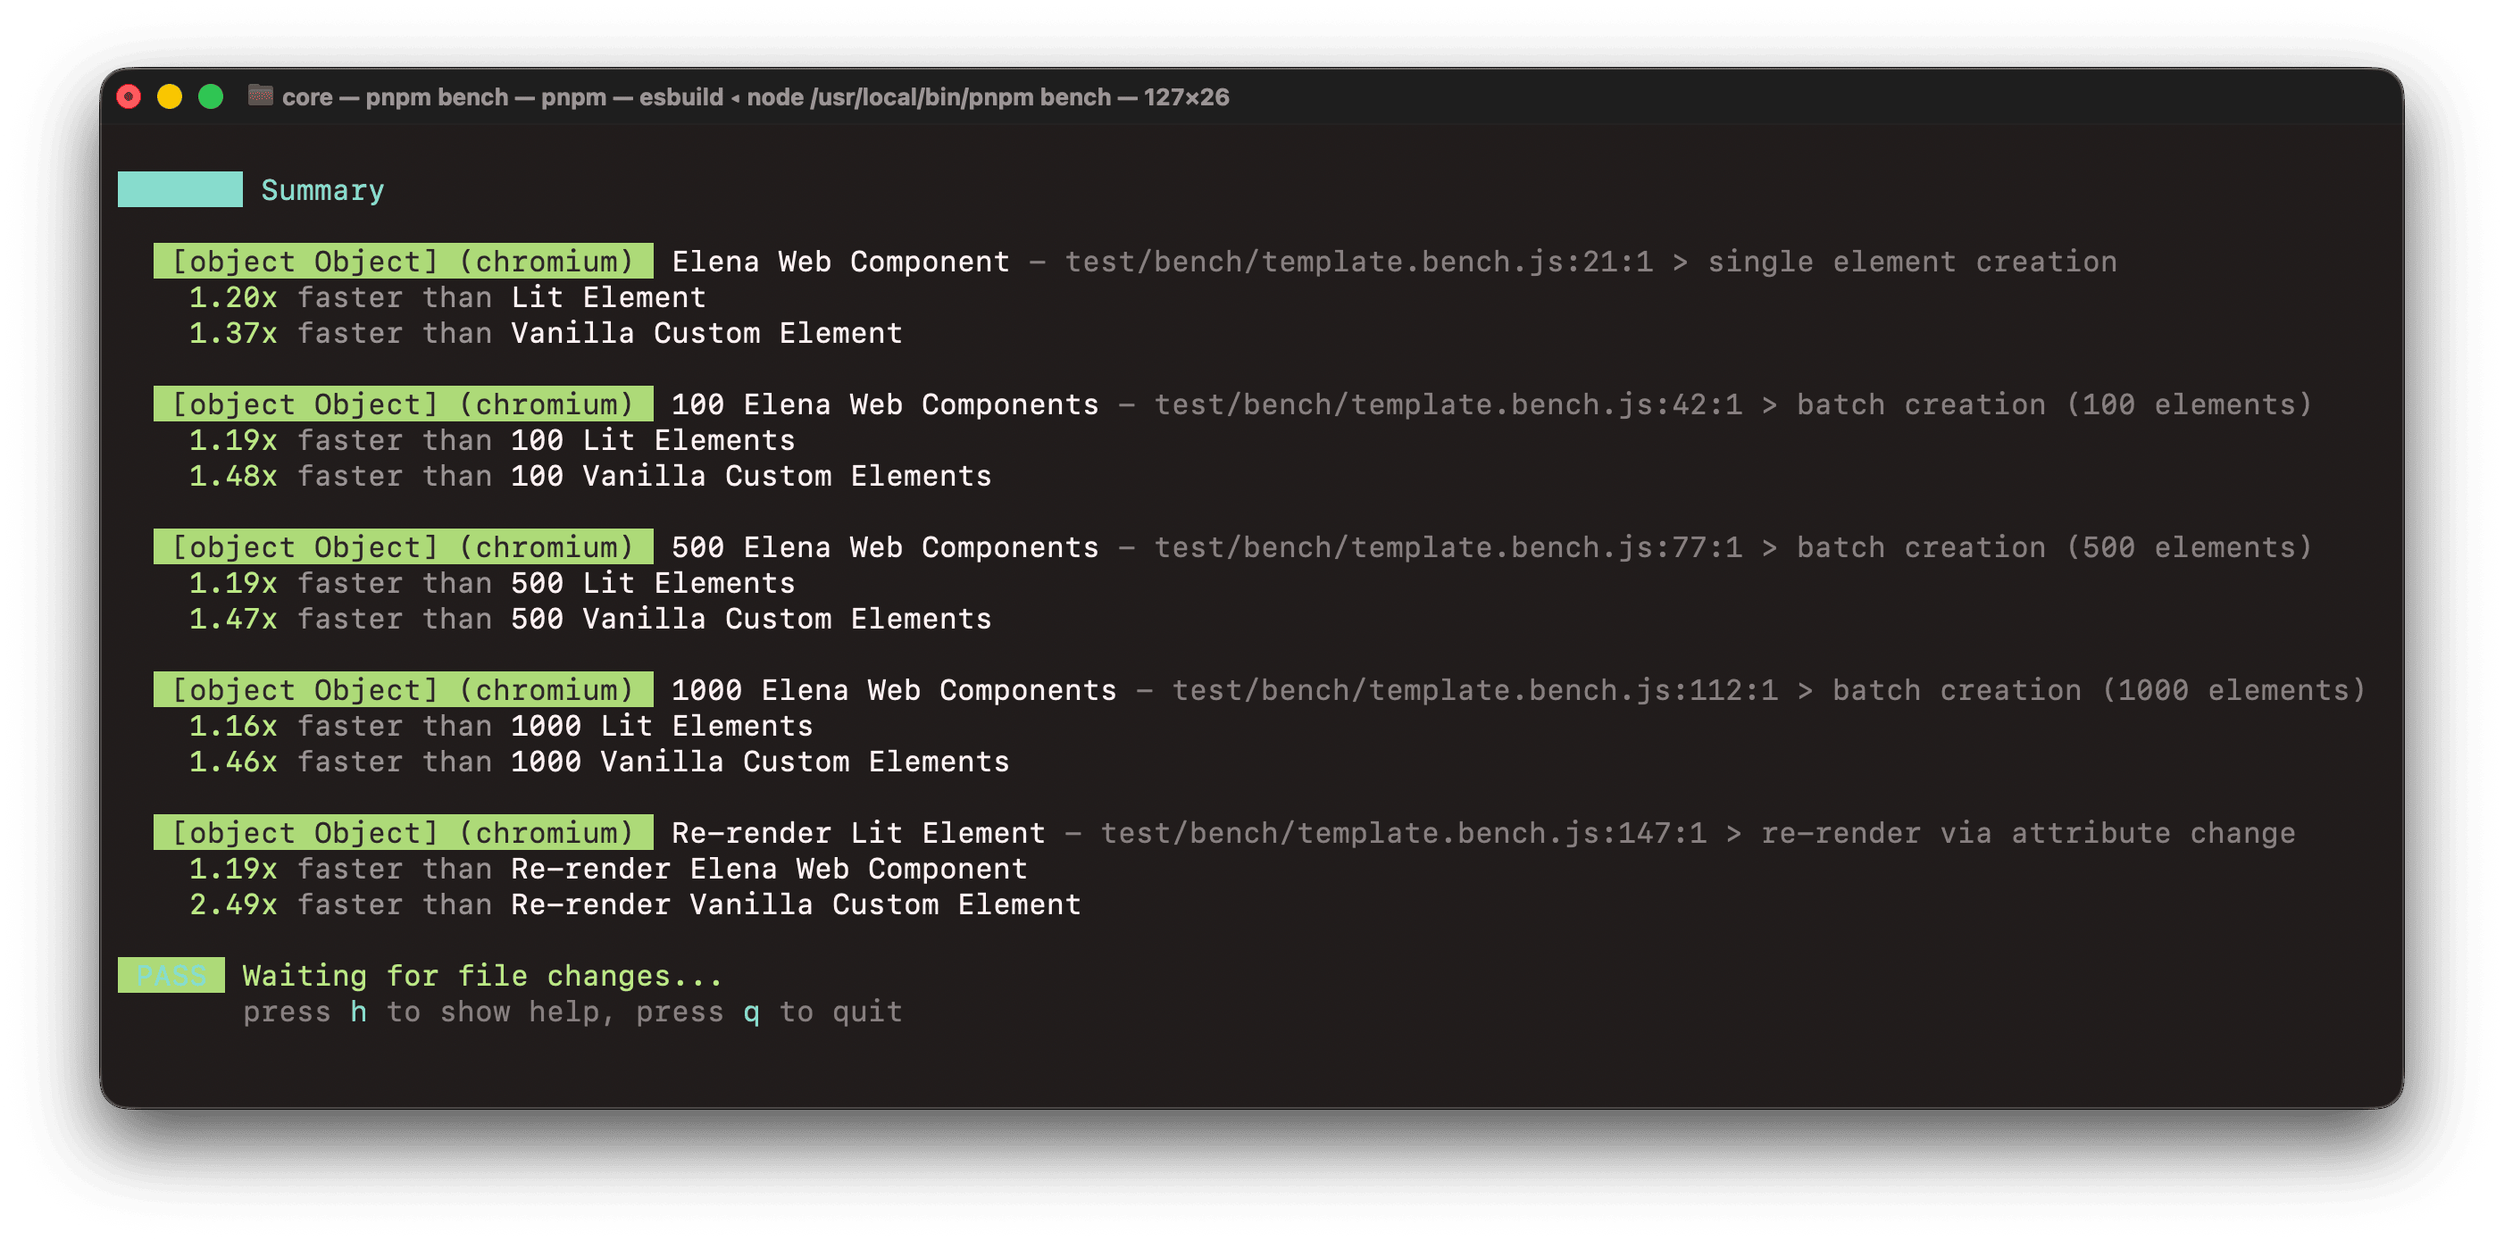
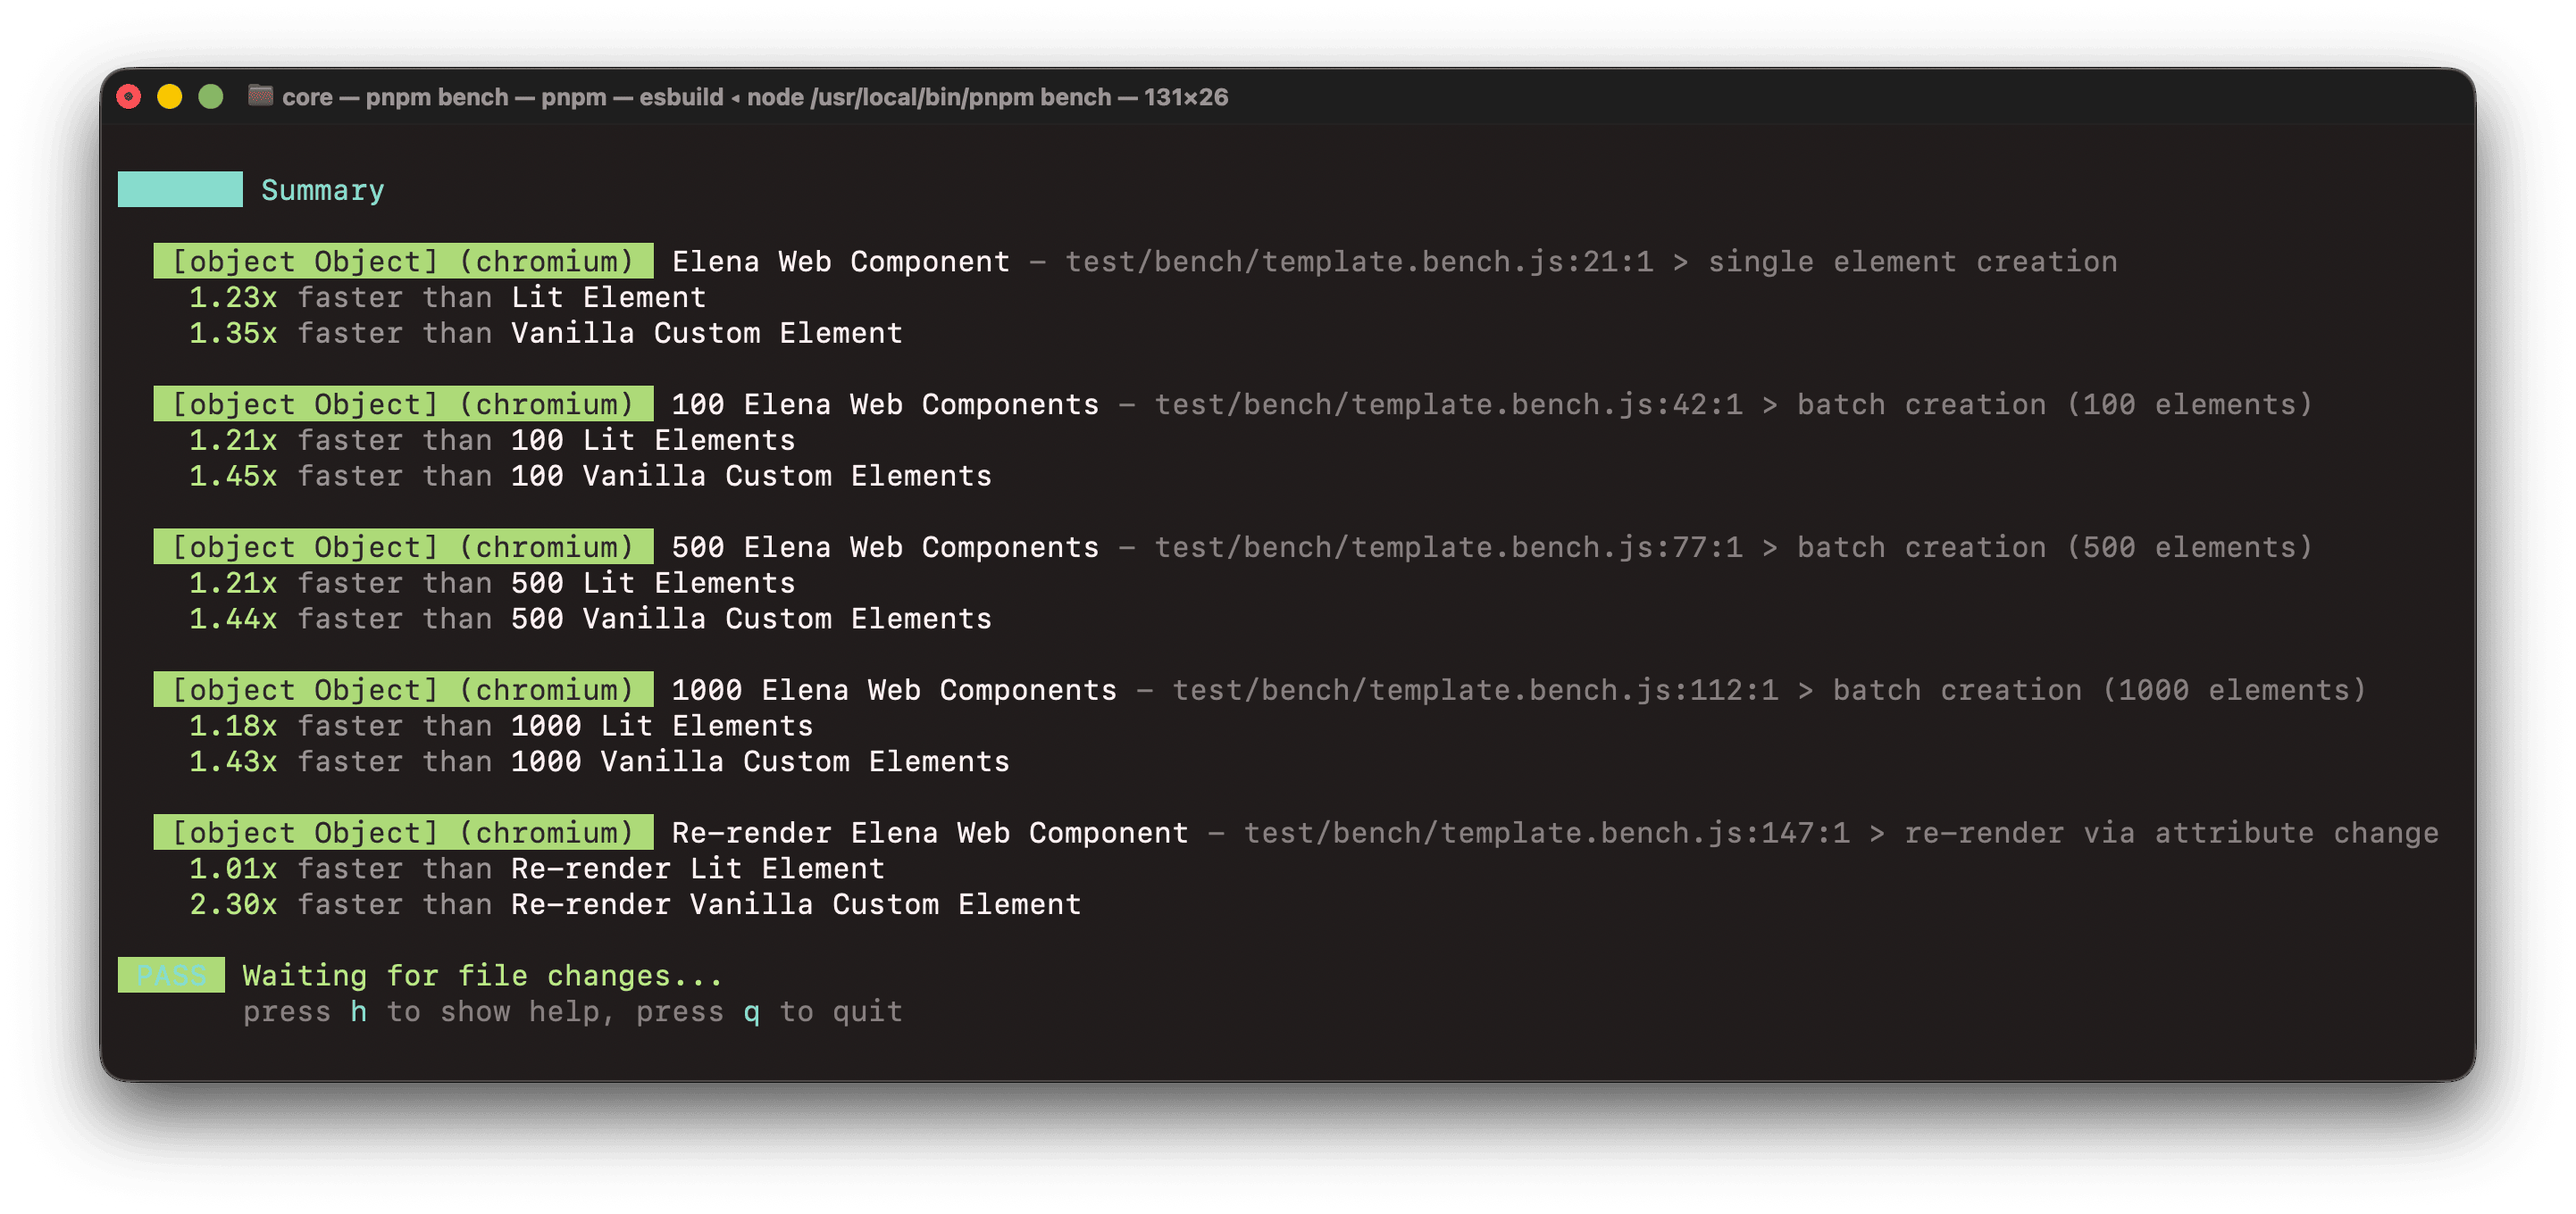
[docs]: Update FAQ on performance

Changed region(s): [[0.031, 0.3088, 0.9618, 0.8956], [0.031, 0.1235, 0.8377, 0.2779], [0.031, 0.0309, 0.9308, 0.0926]]

diff --git a/docs/advanced/faq.md b/docs/advanced/faq.md
@@ -75,13 +75,13 @@ Stencil’s standout feature is its output targets: it can generate framework-sp
 
 ## What is the performance compared to Lit?
 
-At the time of writing, the performance is very similar in our simulated benchmark tests. According to the benchmarks, Elena is roughly `1.20×` faster than Lit for single element creation and batch creation of up to 1000 web components _(the gap gets smaller though the bigger this number grows, see the below screenshot)._ Lit is roughly `1.19×` faster on re-renders via attribute change.
+At the time of writing, the performance is very similar in our simulated benchmark tests. According to the benchmarks, Elena is roughly `1.23×` faster than Lit for single element creation and batch creation of up to 1000 web components _(the gap gets smaller though the bigger this number grows, see the below screenshot)._ Re-renders via attribute change are showing identical performance.
 
-That said, synthetic benchmarks only measure isolated operations and Lit is much more heavily optimized than Elena. Real-world performance depends on what you’re building: how many components are on the page, how often they re-render, how complex your templates are, and how your styles are structured. Our benchmark tests can’t reveal the full picture.
+That said, synthetic benchmarks only measure isolated operations. Real-world performance depends on what you’re building: how many components are on the page, how often they re-render, how complex your templates are, and how your styles are structured. Our benchmark tests can’t reveal the full picture.
 
 <img src="/bench.webp" loading="lazy" width="2804" height="1390" alt="Elena bench test suite" />
 
-When you look at the above screenshot, keep in mind that Elena defaults to Light DOM, Lit to Shadow DOM. Enabling Shadow DOM narrows the gap to only a `1.06×` performance gain over Lit for single element creation, and batch creation performs identically at a consistent `1.00×`.
+When you look at the above screenshot, keep in mind that Elena defaults to Light DOM, Lit to Shadow DOM. Enabling Shadow DOM narrows the gap to only a `1.07×` performance gain over Lit for single element creation, and batch creation performs almost identically.
 
 ## How is Elena tested?
 
